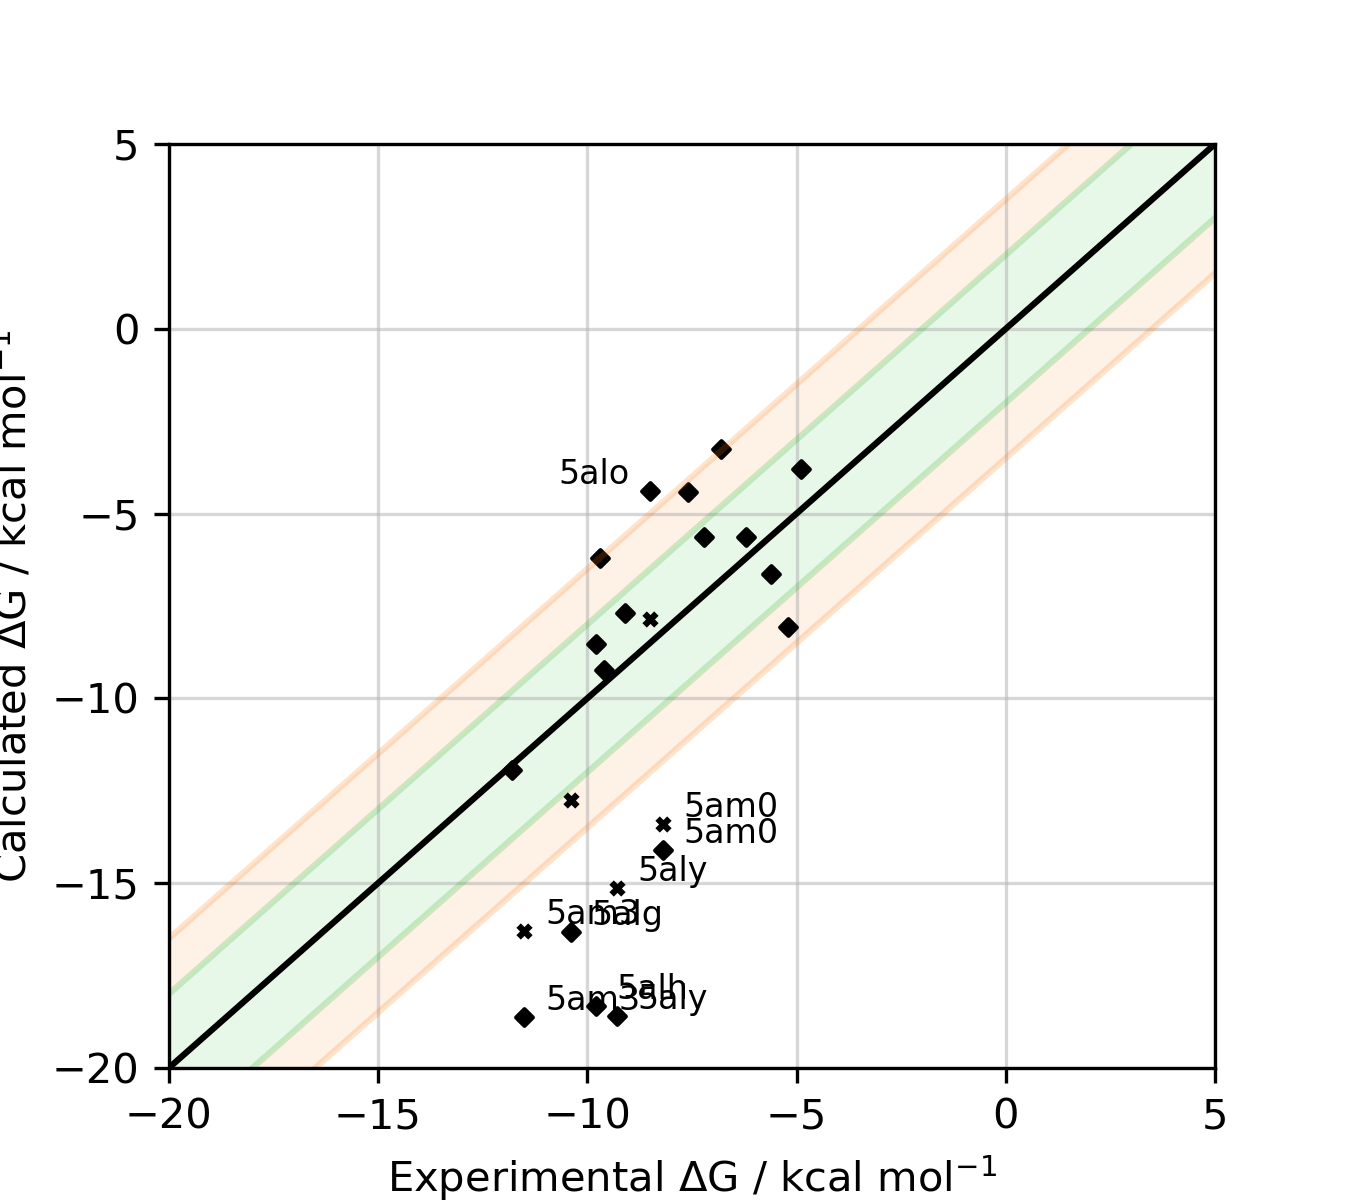
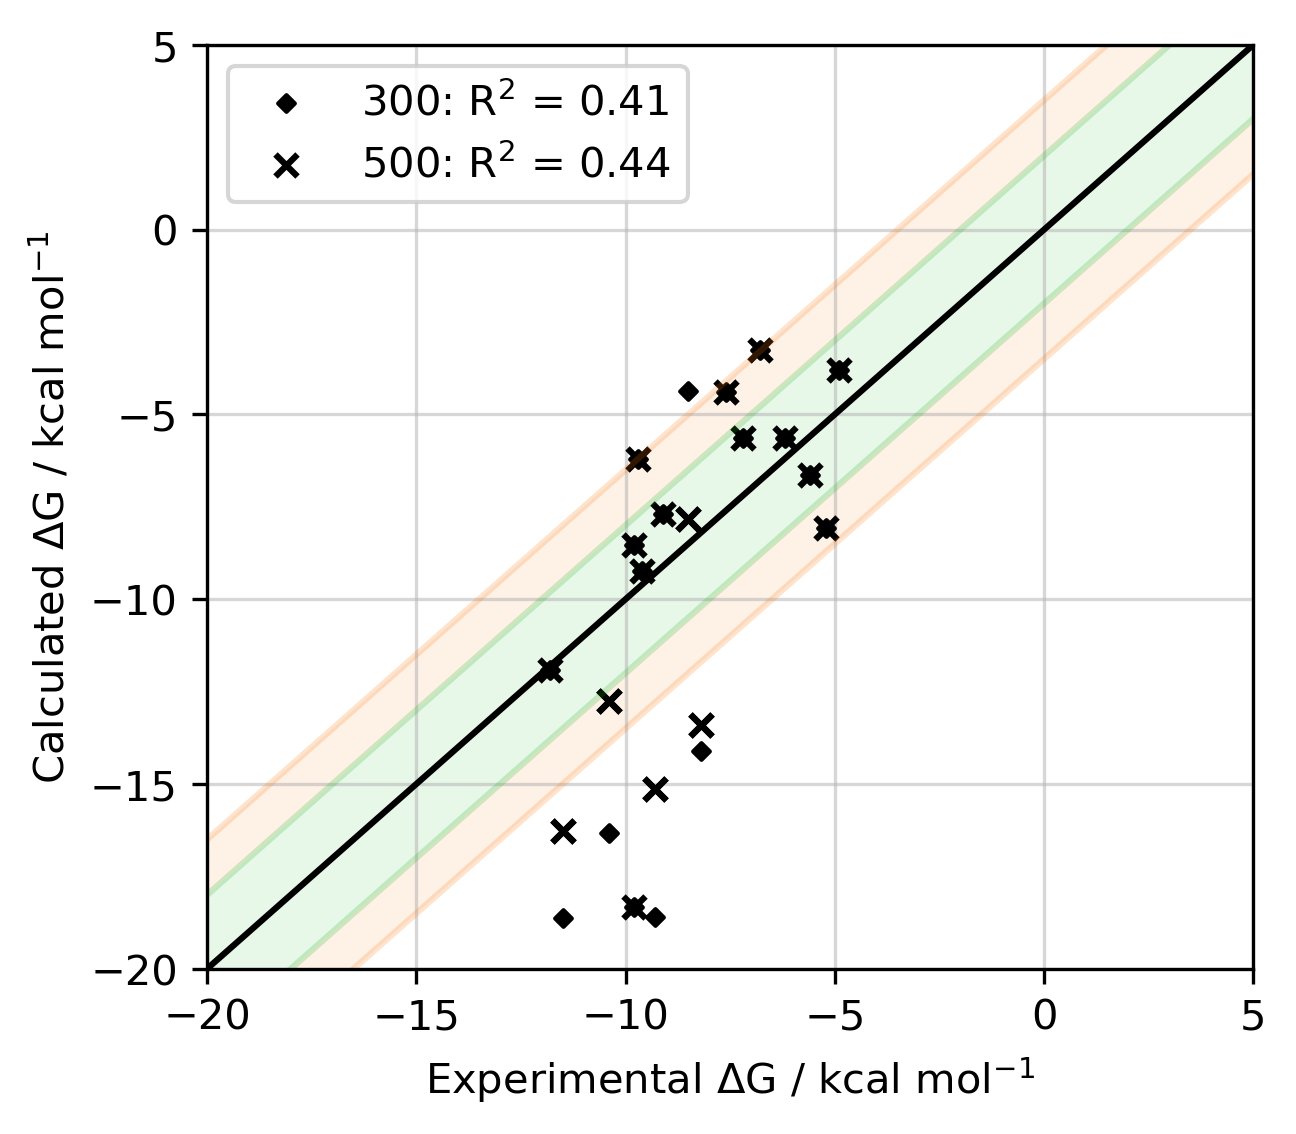
edited dG SIWSH plots

diff --git a/python_scripts/plotting/dG_Plotting/plot_dg.py b/python_scripts/plotting/dG_Plotting/plot_dg.py
@@ -8,6 +8,7 @@ import pandas as pd
 import pathlib
 import datetime
 from sklearn import metrics
+from scipy.stats import linregress
 #import seaborn as sns
 
 colours = ['#31859C',   # FS1 & BS1
@@ -143,14 +144,26 @@ def swish_diftimes(timestamps, exclusions=None):
     x = np.linspace(-20, 10, 100)
 
     markers = {300: 'D', 500: 'x', 1000: 'P'}
+    #df.loc[df.Name.isin(df1.Name), ['Nonprofit', 'Education']] = df1[['Nonprofit', 'Education']].values
+    #r2 = []
+    df1 = pd.read_csv('dg_values.csv', sep=',')
     for t in timestamps:
-        csv = 'dg_values.csv' if t == 300 else 'SWISH_dG_{}ns.csv'.format(t)
-        dg_data = pd.read_csv(csv, sep=',')
-        df = dg_data[~dg_data['pdb'].isin(exclusions)]\
+        dg_data = df1.copy(deep=True) if t == 300 else pd.read_csv('SWISH_dG_{}ns.csv'.format(t), sep=',')
+        df = dg_data[~dg_data['pdb'].isin(exclusions[t])]\
             if exclusions is not None else dg_data
-        ax.scatter(x='exp', y='swish', data=df,
-                   marker=markers[t], s=8, c='k', label=str(t), zorder=2)
+        df1_ex = df1[~df1['pdb'].isin(exclusions[t])]\
+            if exclusions is not None else df1
+        df1_ex.loc[df1_ex.pdb.isin(df.pdb), ['swish']] = df[['swish']].values
+        r2 = linregress(df1_ex['exp'], df1_ex['swish'])[2]**2
 
+        ax.scatter(x='exp', y='swish', data=df,
+                   marker=markers[t],
+                   s=8 if t == 300 else 28,
+                   c='k',
+                   label='{}: $\mathrm{{R^2}}$ = {:3.2f}'.format(t,r2),
+                   zorder=2)
+        ax.legend()
+        '''
         for i, j, n in zip(df['exp'], df['swish'], df['pdb']):
             if j < i+3.7 and j > i-3.7: continue
             if j > i:
@@ -159,7 +172,13 @@ def swish_diftimes(timestamps, exclusions=None):
             else:
                 ax.annotate(n, (i, j), xytext=(5, 0), textcoords='offset points',
                             size=8, ha='left', va="bottom")
-
+        '''
+    ax.scatter(x='exp', y='swish', data=df1_ex,
+                marker=markers[t],
+                s=8 if t == 300 else 28,
+                c='k',
+                label='{}: $\mathrm{{R^2}}$ = {:3.2f}'.format(t,r2),
+                zorder=2)
     ax.plot(x, x, 'k')
     ax.fill_between(x, x+2, x-2, facecolor='xkcd:green', alpha=0.1)
     ax.plot(x, x+2, c='xkcd:green', alpha=0.2)
@@ -175,8 +194,8 @@ def swish_diftimes(timestamps, exclusions=None):
     # add labels
     ax.set_ylabel('Calculated $\Delta$G / kcal mol$^{-1}$')
     ax.set_xlabel('Experimental $\Delta$G / kcal mol$^{-1}$')
-    s = '_ALL' if exclusions is None else '_NOT'+('_').join(exclusions)
-    fig.savefig('SWISH_Times_dG{}.png'.format(s), dpi=300, transparent=True)
+    s = '_ALL' if exclusions is None else '_EXC'
+    fig.savefig('SWISH_Times_dG{}.png'.format(s), dpi=300, transparent=True, bbox_inches='tight')
 
 
 def stats(y_true, y_pred):
@@ -252,6 +271,23 @@ def write_stats(csv):
                             ' | '.join(['{:8.6f}'.format(n) for n in stat_list]),
                             r))
 
+def logP(csv):
+    df= pd.read_csv(csv, sep=',')
+
+    x = [0.05, 0.00, -0.05, -0.10, -0.15, -0.20]
+    #A = df.filter(regex=("r.*")).apply(lambda y: np.polyfit(x, y, 1, full=True), axis=1)
+    A = df.filter(regex=("r.*")).apply(lambda y: linregress(x, y), axis=1)
+    print(A)
+    df['m'] = [s[0] for s in A]
+    df['err'] = [s[4] for s in A]
+    df['R-sq'] = [s[2]**2 for s in A]
+
+    print(df)
+
+
+
+
+
 if __name__ == "__main__":
 
     #ddg_scatter('ddg_data.csv')
@@ -260,7 +296,12 @@ if __name__ == "__main__":
     #quad_plot('dg_values500.csv')
     #quad_plot('dg_values.csv', SI=True)
     swish_diftimes([300, 500])
-    swish_diftimes([300, 500], ['5am3', '5aly', '5am0'])
+    swish_diftimes([300, 500],
+                   {300: ['5alo', '5aly', '5alh', '5alg', '5am0', '5am3'],
+                    500: ['5aly', '5alh', '5am0', '5am3'],
+                    })
+
+    logP('logP_data.csv')
 
     #write_stats('dg_values.csv')
     #write_stats('dg_values500.csv')
